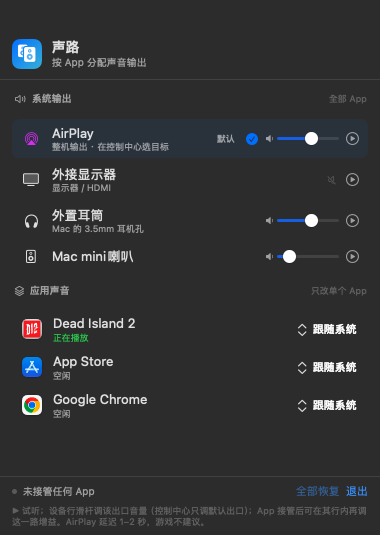
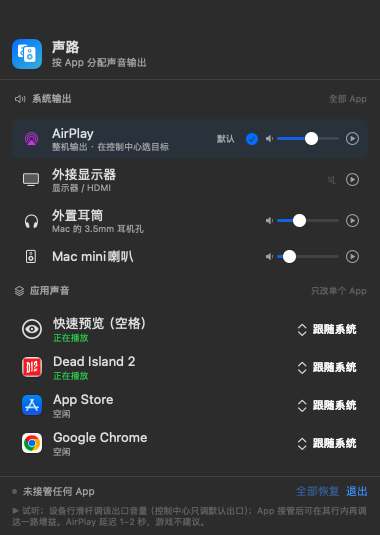
支持接管 Finder 空格预览的音频（1.0.2）
- 扫描器把 QuickLookUIService 当作系统音频源，显示为「快速预览（空格）」
- 给它选目标设备后，空格预览的视频/音频走该设备，默认仍跟随系统
- 版本 1.0.2 / build 3；README、CHANGELOG、界面截图更新

diff --git a/Sources/SoundPath/AppProcesses.swift b/Sources/SoundPath/AppProcesses.swift
@@ -53,6 +53,24 @@ enum AudioProcessScanner {
                                               kAudioProcessPropertyIsRunningOutput,
                                               defaultValue: UInt32(0))) ?? 0) == 1
 
+            // Quick Look and friends are services, not regular apps. Include
+            // them explicitly so the audio they play can be routed too.
+            if let service = systemService(for: bundleID) {
+                let family = "system:\(service.bundleID.lowercased())"
+                var bucket = buckets[family] ?? (
+                    name: service.name,
+                    bundleID: service.bundleID,
+                    ids: [],
+                    playing: false,
+                    icon: NSImage(systemSymbolName: service.symbolName,
+                                  accessibilityDescription: service.name)
+                )
+                if !bucket.ids.contains(objectID) { bucket.ids.append(objectID) }
+                bucket.playing = bucket.playing || playing
+                buckets[family] = bucket
+                continue
+            }
+
             var family = "pid:\(pid)"
             var application: NSRunningApplication?
 
@@ -104,6 +122,27 @@ enum AudioProcessScanner {
         .sorted { lhs, rhs in
             if lhs.isPlaying != rhs.isPlaying { return lhs.isPlaying }
             return lhs.name.localizedStandardCompare(rhs.name) == .orderedAscending
+        }
+    }
+
+    /// Audio-capable system services that never appear as regular apps.
+    private struct SystemAudioService {
+        let bundleID: String
+        let name: String
+        let symbolName: String
+    }
+
+    private static let systemServices: [SystemAudioService] = [
+        // 空格预览（Finder）的视频/音频是由这个服务播的，默认跟随系统输出。
+        SystemAudioService(bundleID: "com.apple.quicklook.QuickLookUIService",
+                           name: "快速预览（空格）",
+                           symbolName: "eye.circle")
+    ]
+
+    private static func systemService(for bundleID: String) -> SystemAudioService? {
+        guard !bundleID.isEmpty else { return nil }
+        return systemServices.first {
+            $0.bundleID.caseInsensitiveCompare(bundleID) == .orderedSame
         }
     }
 

diff --git a/CHANGELOG.md b/CHANGELOG.md
@@ -3,6 +3,13 @@
 格式参考 [Keep a Changelog](https://keepachangelog.com/zh-CN/1.1.0/)，
 版本号遵循 [语义化版本](https://semver.org/lang/zh-CN/)。
 
+## [1.0.2] - 2026-10-26
+
+### 新增
+
+- 支持接管 Finder 空格预览的音频：`QuickLookUIService` 以「快速预览（空格）」出现在「应用声音」中，可单独指定输出设备
+- README 补充空格预览场景与 FAQ
+
 ## [1.0.1] - 2026-10-26
 
 ### 修复
@@ -36,5 +43,6 @@
 - 仅支持 macOS 14.4 及以上（依赖 Core Audio Process Tap）
 - AirPlay 不能作为单个 App 的目标输出（macOS 限制）
 
+[1.0.2]: https://github.com/Carlapple2025-gif/SoundPath/releases/tag/v1.0.2
 [1.0.1]: https://github.com/Carlapple2025-gif/SoundPath/releases/tag/v1.0.1
 [1.0.0]: https://github.com/Carlapple2025-gif/SoundPath/releases/tag/v1.0.0
